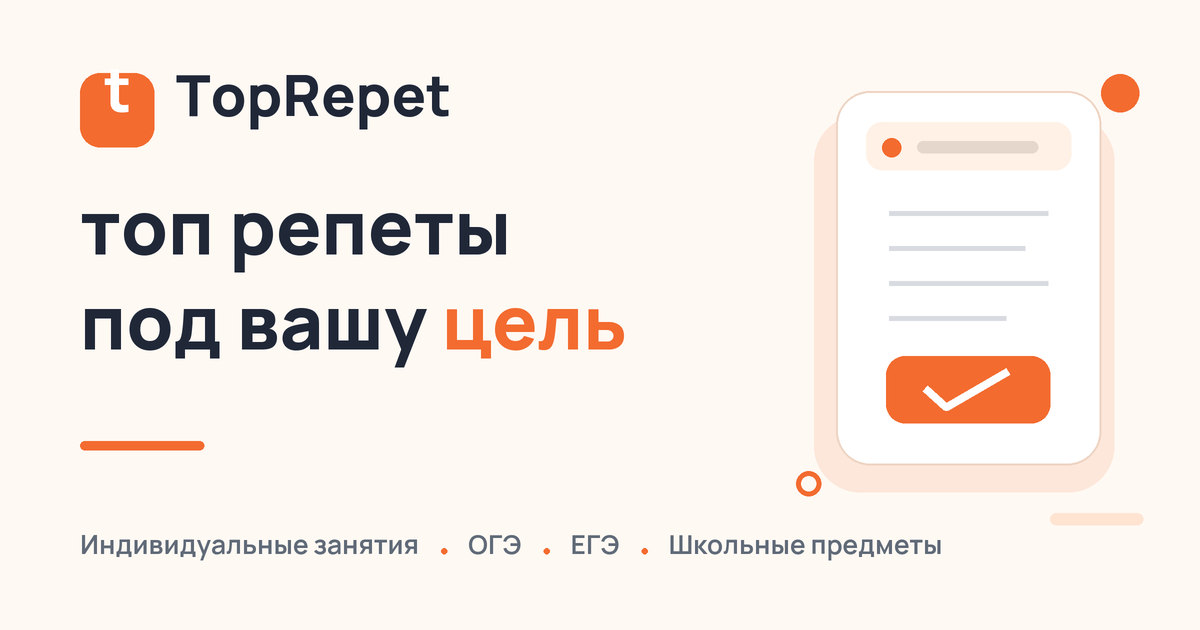
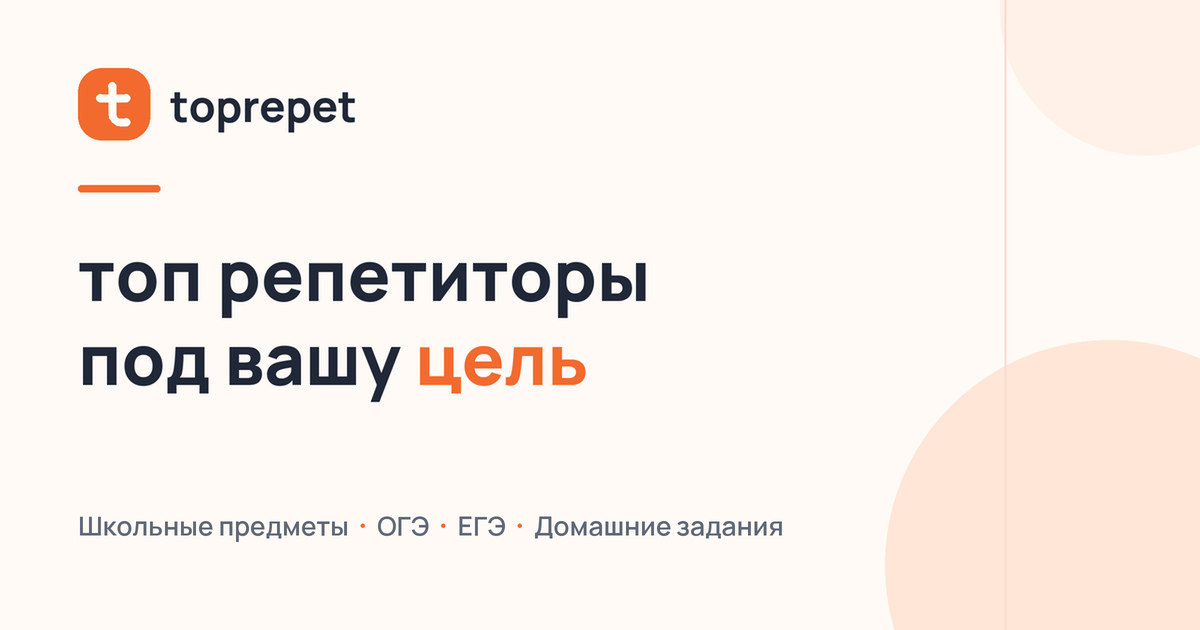
Refresh TopRepet social preview metadata

diff --git a/index.html b/index.html
@@ -15,7 +15,7 @@
 
     <meta
       name="description"
-      content="Подберём репетитора под вашу цель: школьные предметы, домашние задания, ОГЭ и ЕГЭ. Начните с бесплатного знакомства на 20 минут — обсудим задачи и составим план занятий."
+      content="Подберём репетитора под вашу цель: школьные предметы, домашние задания, ОГЭ и ЕГЭ. Бесплатное знакомство на 20 минут и индивидуальный план занятий."
     />
 
     <meta
@@ -25,16 +25,16 @@
 
     <meta
       property="og:title"
-      content="TopRepet — топ репеты под вашу цель"
+      content="TopRepet — топ репетиторы под вашу цель"
     />
 
     <meta
       property="og:description"
-      content="Подберём репетитора под вашу цель: школьные предметы, домашние задания, ОГЭ и ЕГЭ. Начните с бесплатного знакомства на 20 минут — обсудим задачи и составим план занятий."
+      content="Подберём репетитора под вашу цель: школьные предметы, домашние задания, ОГЭ и ЕГЭ. Бесплатное знакомство на 20 минут и индивидуальный план занятий."
     />
 
     <meta property="og:url" content="https://toprepet.ru/" />
-    <meta property="og:image" content="https://toprepet.ru/social-preview.jpg" />
+    <meta property="og:image" content="https://toprepet.ru/social-preview.jpg?v=20260925" />
     <meta property="og:image:width" content="1200" />
     <meta property="og:image:height" content="630" />
     <meta property="og:image:alt" content="TopRepet — сервис подбора репетиторов" />
@@ -46,18 +46,18 @@
 
     <meta
       name="twitter:title"
-      content="TopRepet — топ репеты под вашу цель"
+      content="TopRepet — топ репетиторы под вашу цель"
     />
 
     <meta
       name="twitter:description"
-      content="Подберём репетитора под вашу цель: школьные предметы, домашние задания, ОГЭ и ЕГЭ. Начните с бесплатного знакомства на 20 минут — обсудим задачи и составим план занятий."
+      content="Подберём репетитора под вашу цель: школьные предметы, домашние задания, ОГЭ и ЕГЭ. Бесплатное знакомство на 20 минут и индивидуальный план занятий."
     />
 
-    <meta name="twitter:image" content="https://toprepet.ru/social-preview.jpg" />
+    <meta name="twitter:image" content="https://toprepet.ru/social-preview.jpg?v=20260925" />
     <meta name="twitter:image:alt" content="TopRepet — сервис подбора репетиторов" />
 
-    <title>TopRepet — топ репеты под вашу цель</title>
+    <title>TopRepet — топ репетиторы под вашу цель</title>
 
     <link rel="icon" type="image/svg+xml" href="/favicon.svg?v=2" />
     <link rel="icon" type="image/png" sizes="32x32" href="/favicon-32x32.png" />
@@ -139,7 +139,7 @@
     <div id="root"></div>
 
     <noscript>
-      TopRepet — топ репеты под вашу цель.
+      TopRepet — топ репетиторы под вашу цель.
       Начните с бесплатного знакомства на 20 минут:
       обсудим задачи и составим план занятий.
       <a href="https://t.me/toprepet_manager">
